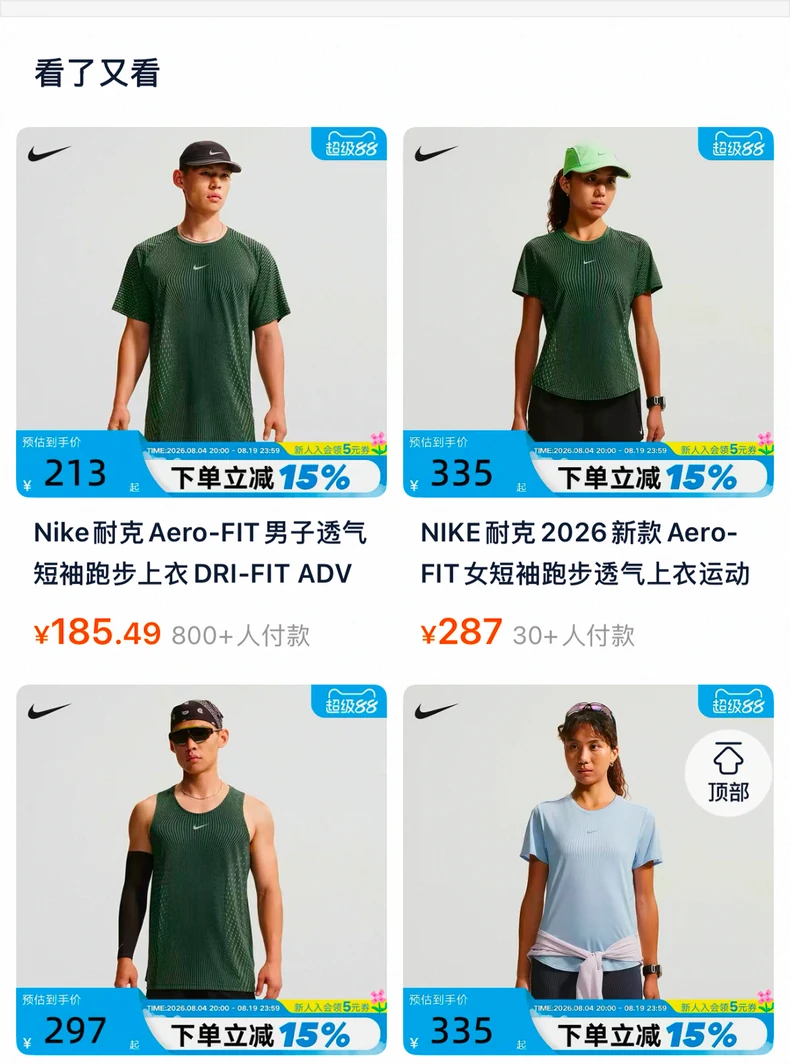
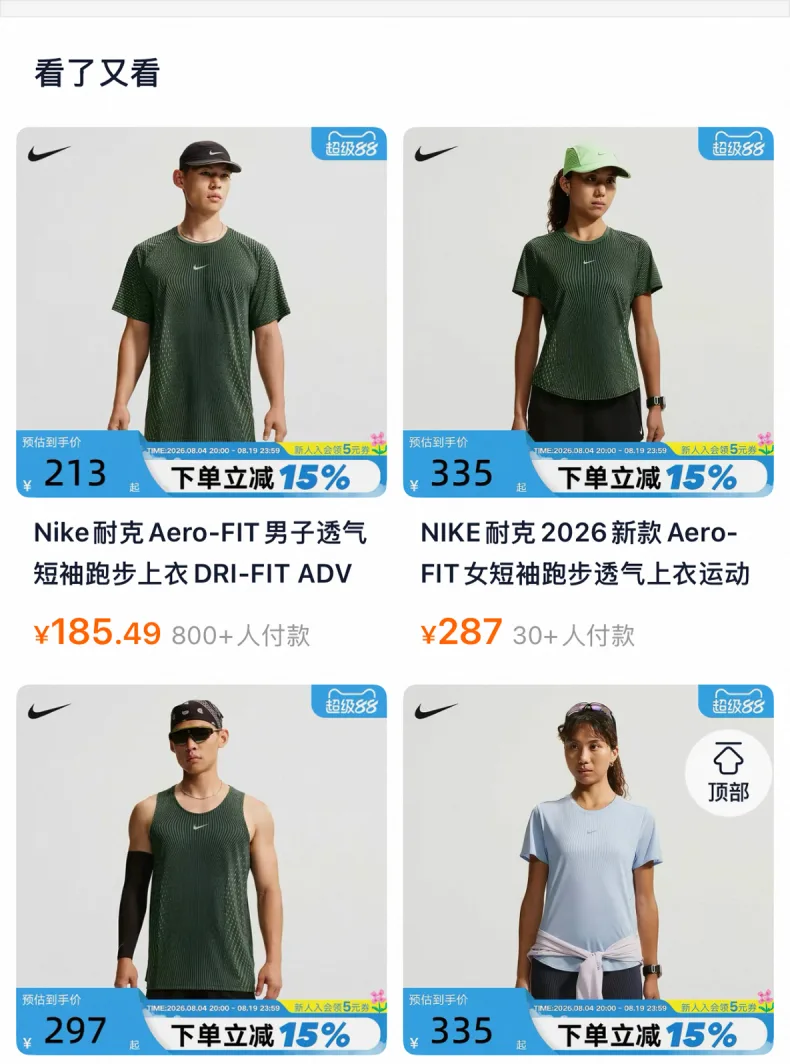
Update look-again recommendations artwork

diff --git a/index.html b/index.html
@@ -86,7 +86,7 @@
     </section>
     <section class="detail" id="detailSection" aria-label="商品详情长图"></section>
     <section class="shared-recommendations" id="sharedRecommendations" aria-label="看了又看" hidden>
-      <img src="assets/shared/look-again.webp?v=84" alt="看了又看商品推荐" loading="lazy" decoding="async" />
+      <img src="assets/shared/look-again.webp?v=90" alt="看了又看商品推荐" loading="lazy" decoding="async" />
     </section>
     <footer class="buybar buybar-original">
       <img src="assets/buybar-original.png" alt="店铺、客服、收藏、加入购物车、领券购买" />
